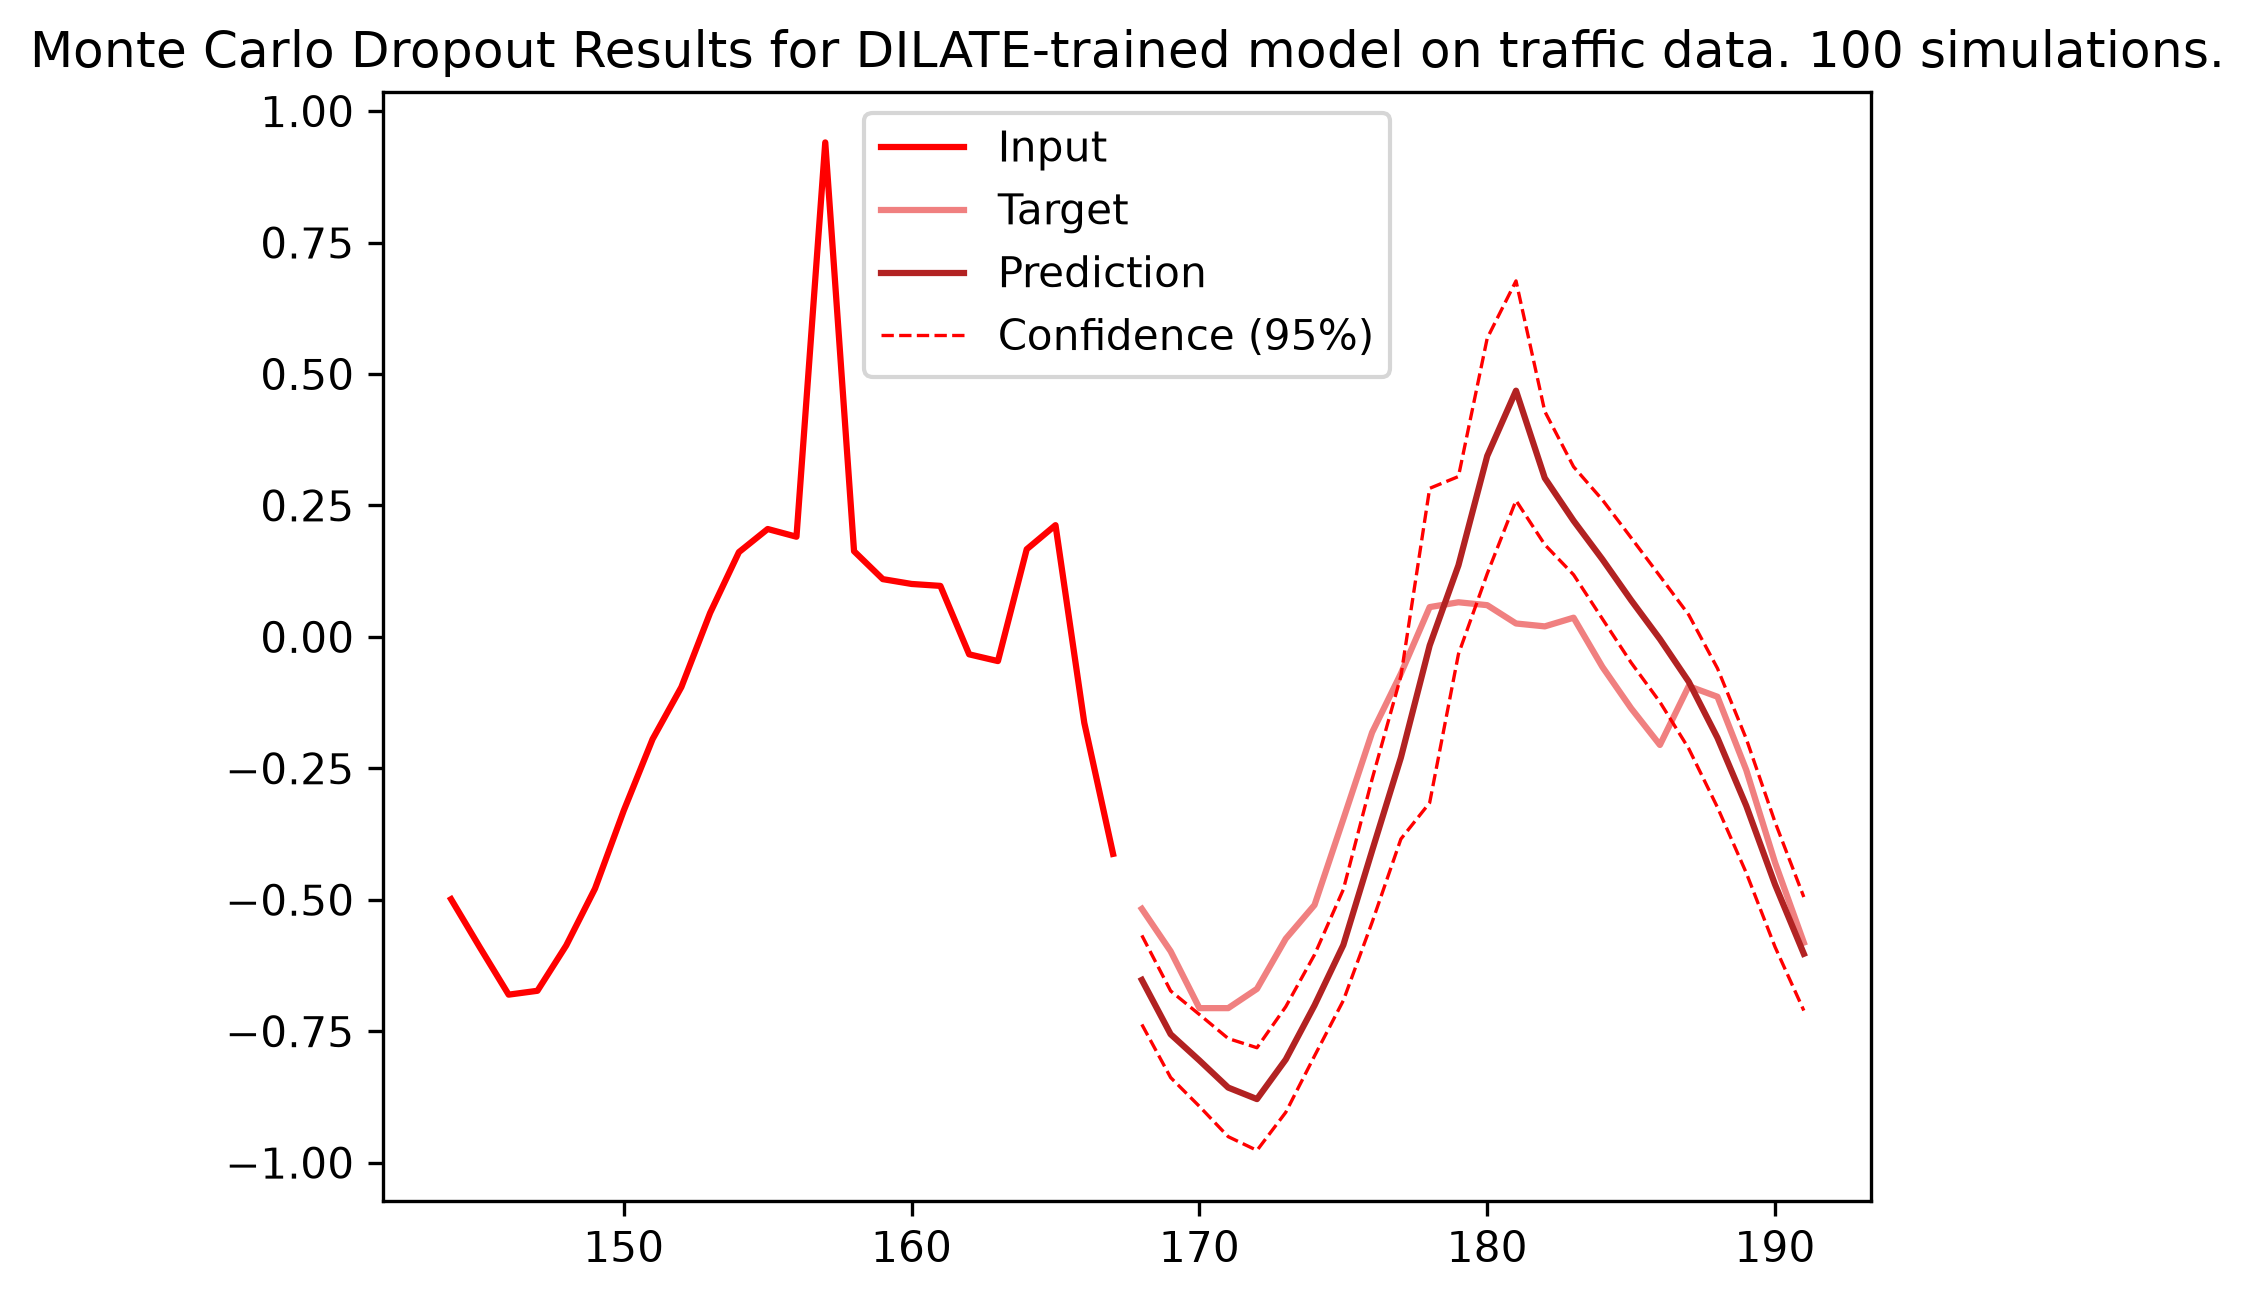
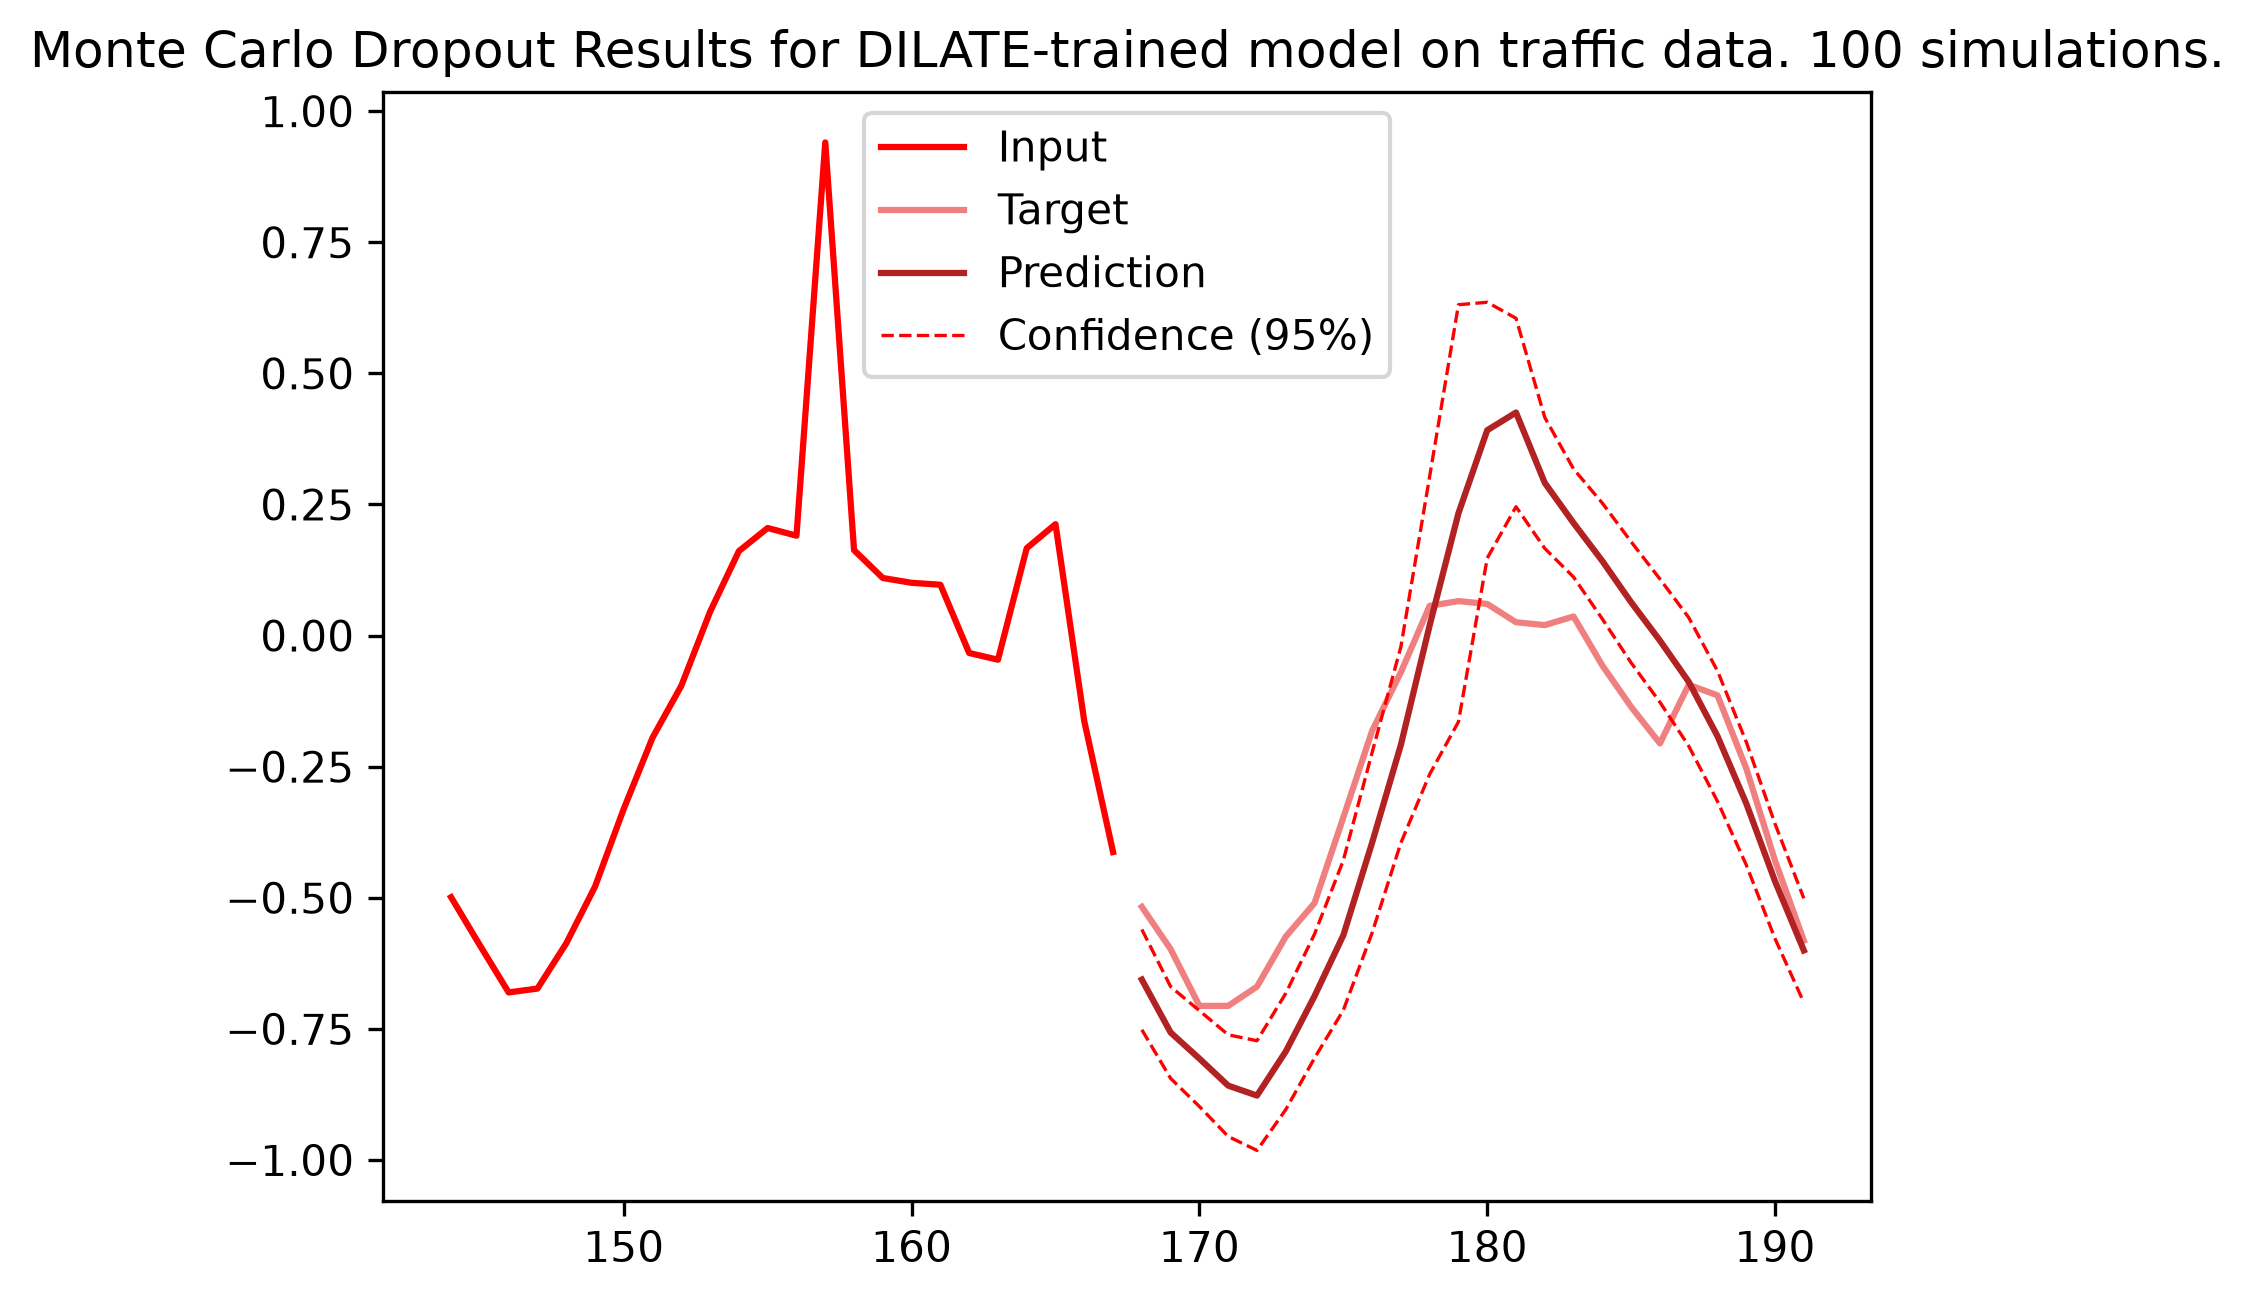
Reproducibility choice

diff --git a/src/loader.py b/src/loader.py
@@ -55,7 +55,7 @@ def create_time_series_dataset(series, nav, nap, N):
 
     return X, y
 
-def prepare_univariate_data(series_data, nav, nap, train_size, test_size, batch_size, num_workers, create_val_loader=False, val_size=0, random_state=666, shuffle_split=True):
+def prepare_univariate_data(series_data, nav, nap, train_size, test_size, batch_size, num_workers, create_val_loader=False, val_size=0, random_state=666, shuffle_split=True, seed_reproducibility=True):
     """
     Preprocesses univariate time series data for training, testing, and optional validation.
 
@@ -99,6 +99,11 @@ def prepare_univariate_data(series_data, nav, nap, train_size, test_size, batch_
         random_state=random_state, shuffle=shuffle_split, stratify=None
     )
 
+    generator = torch.Generator()
+    if seed_reproducibility:
+        generator.manual_seed(0)
+    else:
+        generator.seed()
 
     if create_val_loader:
         # 4. Train/Validation Split
@@ -109,22 +114,22 @@ def prepare_univariate_data(series_data, nav, nap, train_size, test_size, batch_
 
         our_dataset_train = OurDataset(X_train, y_train)
         our_dataset_val = OurDataset(X_val, y_val)
-        train_loader = DataLoader(our_dataset_train, batch_size=batch_size, shuffle=True, num_workers=num_workers, pin_memory=True)
-        val_loader = DataLoader(our_dataset_val, batch_size=batch_size, shuffle=False, num_workers=num_workers, pin_memory=True)
+        train_loader = DataLoader(our_dataset_train, batch_size=batch_size, shuffle=True, num_workers=num_workers, pin_memory=True, generator=generator)
+        val_loader = DataLoader(our_dataset_val, batch_size=batch_size, shuffle=False, num_workers=num_workers, pin_memory=True, generator=generator)
 
     else:
         our_dataset_train = OurDataset(X_train_full, y_train_full)
-        train_loader = DataLoader(our_dataset_train, batch_size=batch_size, shuffle=True, num_workers=num_workers, pin_memory=True)
+        train_loader = DataLoader(our_dataset_train, batch_size=batch_size, shuffle=True, num_workers=num_workers, pin_memory=True, generator=generator)
 
     our_dataset_test = OurDataset(X_test, y_test)
-    test_loader = DataLoader(our_dataset_test, batch_size=batch_size, shuffle=False, num_workers=num_workers, pin_memory=True)
+    test_loader = DataLoader(our_dataset_test, batch_size=batch_size, shuffle=False, num_workers=num_workers, pin_memory=True, generator=generator)
 
     if create_val_loader:
         return scaler, train_loader, test_loader, val_loader
     else:
         return scaler, train_loader, test_loader
 
-def prepare_multivariate_data(series_list, nav, nap, train_size, test_size, batch_size, num_workers, create_val_loader=False, val_size=0, random_state=666, shuffle_split=True):
+def prepare_multivariate_data(series_list, nav, nap, train_size, test_size, batch_size, num_workers, create_val_loader=False, val_size=0, random_state=666, shuffle_split=True, seed_reproducibility=True):
     """
     Preprocesses multivariate time series data for training, testing, and optional validation.
 
@@ -181,6 +186,12 @@ def prepare_multivariate_data(series_list, nav, nap, train_size, test_size, batc
     train_loader = None
     val_loader = None
 
+    generator = torch.Generator()
+    if seed_reproducibility:
+        generator.manual_seed(0)
+    else:
+        generator.seed()
+
     if create_val_loader:
         # 4. Train/Validation Split
         X_train, X_val, y_train, y_val = sklearn.model_selection.train_test_split(
@@ -190,15 +201,15 @@ def prepare_multivariate_data(series_list, nav, nap, train_size, test_size, batc
 
         our_dataset_train = OurDataset(X_train, y_train)
         our_dataset_val = OurDataset(X_val, y_val)
-        train_loader = DataLoader(our_dataset_train, batch_size=batch_size, shuffle=True, num_workers=num_workers, pin_memory=True)
-        val_loader = DataLoader(our_dataset_val, batch_size=batch_size, shuffle=False, num_workers=num_workers, pin_memory=True)
+        train_loader = DataLoader(our_dataset_train, batch_size=batch_size, shuffle=True, num_workers=num_workers, pin_memory=True, generator = generator)
+        val_loader = DataLoader(our_dataset_val, batch_size=batch_size, shuffle=False, num_workers=num_workers, pin_memory=True, generator = generator)
 
     else:
         our_dataset_train = OurDataset(X_train_full, y_train_full)
-        train_loader = DataLoader(our_dataset_train, batch_size=batch_size, shuffle=True, num_workers=num_workers, pin_memory=True)
+        train_loader = DataLoader(our_dataset_train, batch_size=batch_size, shuffle=True, num_workers=num_workers, pin_memory=True, generator = generator)
 
     our_dataset_test = OurDataset(X_test, y_test)
-    test_loader = DataLoader(our_dataset_test, batch_size=batch_size, shuffle=False, num_workers=num_workers, pin_memory=True)
+    test_loader = DataLoader(our_dataset_test, batch_size=batch_size, shuffle=False, num_workers=num_workers, pin_memory=True, generator=generator)
 
     if create_val_loader:
         return list_of_scalers, train_loader, val_loader, test_loader

diff --git a/models/bayesian_fusion.py b/models/bayesian_fusion.py
@@ -18,16 +18,12 @@ class FusionBayesianEncoderRNN(torch.nn.Module):
       # TOTAL input if hot_encoding : [batch_size, length T, length T, dimensionality d]
       # TOTAL input if time_delay : [batch_size, length T - k, time delay k + 1, dimensionality d]
       # For the input of forward function of one GRU cell, suppress dimension 1 (resp. T and T - k)
-        #print("INPUT GRU", input.shape,"\n", "\n", "\n", input) = 50, k+1, num_var
         output, hidden = self.gru(input, hidden)
         return output, hidden
 
     def init_hidden(self,device):
         #[num_layers*num_directions,batch,hidden_size]
         return torch.zeros(self.num_grulstm_layers, self.batch_size, self.hidden_size, device=device)
-        #local_gener = torch.Generator(device=device)
-        #local_gener.manual_seed(1) # For reproducibility
-        #return torch.randn(self.num_grulstm_layers, self.batch_size, self.hidden_size, device=device, generator=local_gener, dtype=torch.float32)
 
 class FusionBayesianDecoderRNN(nn.Module):
     def __init__(self, input_size, hidden_size, num_grulstm_layers,fc_units, output_size):
@@ -47,7 +43,6 @@ class FusionBayesian_Net_GRU(nn.Module):
         super(FusionBayesian_Net_GRU, self).__init__()
         if fusion_style == 'early' and encoding_strategy_univar == 'hot_encoding' :
           print("Hot encoding is not recommended for early fusion of variables. It would be very heavy to compute.")
-          #raise ValueError("Hot encoding is deactivated for early fusion of variables. It would be too heavy to compute.")
         self.encoder = encoder
         self.decoder = decoder
         self.target_length = target_length
@@ -117,8 +112,6 @@ class FusionBayesian_Net_GRU(nn.Module):
         for ei in range(input_length):
             if self.encoding_strategy_univar != 'no strategy':
               encoder_input = x_bis[:,ei:ei+1,:,:]
-            #elif self.encoding_strategy_univar == 'time_delay_embedding':
-              #encoder_input = x[:,ei:ei+self.k,:] #Would this be more efficient ?
             else:
               encoder_input = x[:,ei:ei+1,:]
             if self.training:
@@ -137,10 +130,6 @@ class FusionBayesian_Net_GRU(nn.Module):
 
 
         decoder_input = x[:,-1,:].unsqueeze(1).to(torch.float32) # first decoder input= last element of input sequence
-      ##  if self.training and self.recurrent_dropout>0:
-        ##  encoder_hidden = encoder_hidden * mask_hidden
-       # if self.training and self.input_dropout>0:
-        #  decoder_input = decoder_input * mask_in
         decoder_hidden = encoder_hidden
 
         outputs = torch.zeros([batch_size, self.target_length, x.shape[2]]).to(self.device, non_blocking=True)

diff --git a/demo.py b/demo.py
@@ -1,12 +1,7 @@
-#pip install tslearn
-#pip install -r requirements.txt
-#pip install torch-timeseries
-
 import os
 import torch
 import numpy as np
 import matplotlib.pyplot as plt
-#from torch.utils.data import DataLoader
 import random
 from tslearn.metrics import dtw, dtw_path
 import matplotlib.pyplot as plt
@@ -23,8 +18,9 @@ from loss import soft_dtw, path_soft_dtw, dilate_loss
 from loss.dilate_loss import dilate_loss
 from models.train import train_model2
 
-epochs_num_dil = 0
-epochs_num_mse = 0
+epochs_num_dil = 0 #Change it if you want to re-train the DLATE-trained model.
+epochs_num_mse = 0 #Idem for the MSE-trained model. Be careful, the training is quite long !
+seed_reproducibility = True #Set it to False if you want an (almost) unique result ! 
 N_input=168
 N_output=24
 batch_size = 182
@@ -32,7 +28,16 @@ num_var = 1
 gamma = 0.1
 
 device = torch.device("cuda:0" if torch.cuda.is_available() else "cpu")
-random.seed(0)
+if seed_reproducibility:
+    torch.use_deterministic_algorithms(True)
+    torch.backends.cudnn.benchmark = False
+    random.seed(0)
+    np.random.seed(0)
+    torch.manual_seed(0)
+else : # It's part of the magic ! 
+    random.seed() 
+    np.random.seed()
+    torch.seed()
 
 #load data
 trafic = Traffic("./data")
@@ -42,7 +47,7 @@ donnees_trafic_rangees = donnees_trafic.transpose().flatten()
 scaler_traffic, trafic_train, trafic_test, trafic_val = prepare_univariate_data(
                         series_data = donnees_trafic_rangees, nav = N_input, nap = N_output,
                         train_size=5460, test_size = 1820, val_size = 1820,
-                        create_val_loader=True, batch_size=182, num_workers=4)
+                        create_val_loader=True, batch_size=182, num_workers=4, seed_reproducibility=seed_reproducibility)
 
 encoder2 = FusionBayesianEncoderRNN(input_size=1, hidden_size=128, num_grulstm_layers=1, batch_size=182).to(device)
 decoder2 = FusionBayesianDecoderRNN(input_size=1, hidden_size=128, num_grulstm_layers=1,fc_units=16, output_size=1).to(device)

diff --git a/src/monte_carlo_simulations.py b/src/monte_carlo_simulations.py
@@ -4,7 +4,7 @@ import torch.nn.functional as F
 import random
 
 device = torch.device("cuda:0" if torch.cuda.is_available() else "cpu")
-random.seed(0)
+#random.seed(0)
 
 def monte_carlo_dropout(model, loader, batch_size, N_output, s):
   # s sup ou egal à 1
@@ -13,9 +13,9 @@ def monte_carlo_dropout(model, loader, batch_size, N_output, s):
 
   outputs = torch.zeros(batch_number, batch_size, N_output, num_var, 2).to(device) # dernières dimensions: moyenne, écart-type
   if s>1 :
-    model.Training = True #enables dropout
+    model.training = True #enables dropout
   else :
-    model.Training = False #disables dropout
+    model.training = False #disables dropout
 
   met = 0
 
